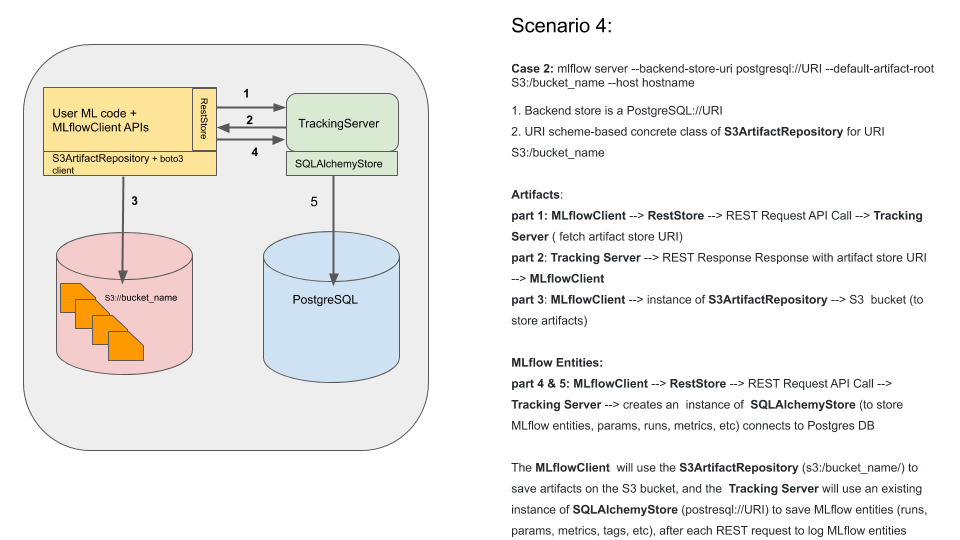
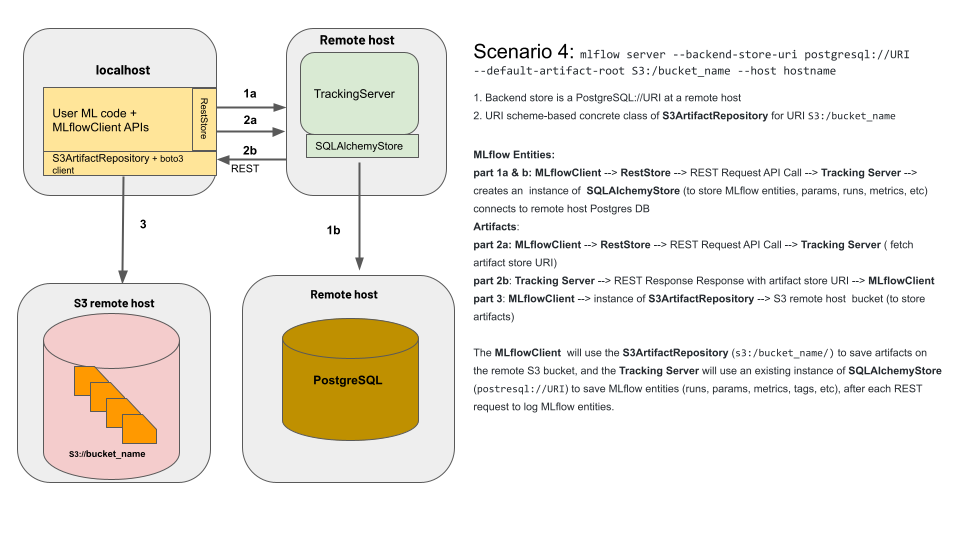
Incorporate feedback and update the images and scenarios

diff --git a/py/mlflow/server/4_stores_scenario.py b/py/mlflow/server/4_stores_scenario.py
@@ -2,46 +2,24 @@ import mlflow
 
 """
 Scenario 4: Tracking server launched at a remote host along with an artifact location and an SQLAlchemy 
-compatible backend store. This scenarios can have two cases:
+compatible backend store. 
 
-Case 1. Launch mlflow server: mlflow server --backend-store-uri sqlite:///my_mlruns.db --host hostname 
---default-artifact-root {file:/mnt/my_artifacts, s3, sftb, gc, wasb, dbfs, hdfs...}
-
-1. Backend store is at local sqlite:///my_mlruns.db
-2. URI scheme-based concrete class of ArtifactRepository for URIs file:/mnt/my_artifacts, s3:/bucket_name, etc.
-
-Artifacts: 
-part 1: MLflowClient --> RestStore --> REST Request API Call --> Tracking Server (fetch artifact store URI)
-part 2: Tracking Server --> REST Response Response with artifact store URI --> MLflow Client
-part 3: MLflowClient --> instance of [scheme]ArtifactRepository --> S3/ftp/wasb/gc etc( to store artifacts)
-
-MLflow Entities:
-part 4 & 5: MLflowClient --> RestStore --> REST Request API Call --> Tracking Server --> instance of SQLAlchemyStore (to store MLflow entities, params, runs, metrics, etc) 
-           and writes to the sqlite file, after each REST request to log MLflow entities
-
-
-The client will use the LocalArtifactFileRepository (file:/mnt/my_artifacts) to save artifacts and the tracking server
-will use an instance SQLAlchemyStore (sqlite:///my_mlruns.db) to save MLflow entities (runs, params, metrics, tags, etc).
-
-
-Case 2:
 mlflow server --backend-store-uri postgresql://URI --default-artifact-root s3:/bucket_name --host hostname
 
 1. Backend store is at SQL server at postresql://URI
 2. URI scheme-based concrete class of S3ArtifactRepository for URI s3:/bucket_name
 
-Artifacts: 
-part 1: MLflowClient --> RestStore --> REST Request API Call --> Tracking Server (fetch artifact store URI)
-part 2: Tracking Server --> REST Response Response with artifact store URI --> MLflow Client
-part 3: MLflowClient --> instance of S3ArtifactRepository --> S3(to store artifacts)
+1. Backend store is a PostgreSQL://URI at a remote host
+2. URI scheme-based concrete class of S3ArtifactRepository for URI S3:/bucket_name
 
 MLflow Entities:
-part 4 & 5: MLflowClient --> RestStore --> REST Request API Call --> Tracking Server --> creates an  instance of 
-          SQLAlchemyStore (to store MLflow entities, params, runs, metrics, etc) connects to Postgres DB
+part 1a & b: MLflowClient --> RestStore --> REST Request API Call --> Tracking Server --> creates an  instance of  SQLAlchemyStore (to store MLflow entities, params, runs, metrics, etc) connects to remote host Postgres DB
+Artifacts:
+part 2a: MLflowClient --> RestStore --> REST Request API Call --> Tracking Server ( fetch artifact store URI)
+part 2b: Tracking Server --> REST Response Response with artifact store URI --> MLflowClient
+part 3: MLflowClient --> instance of S3ArtifactRepository --> S3 remote host  bucket (to store artifacts)
 
-The MLflowClient  will use the S3ArtifactRepository (s3:/bucket_name/) to save artifacts on the S3 bucket, and 
-the  Tracking Server will use an existing instance of SQLAlchemyStore (postresql://URI) to save MLflow entities 
-(runs, params, metrics, tags, etc), after each REST request to log MLflow entities
+The MLflowClient  will use the S3ArtifactRepository (s3:/bucket_name/) to save artifacts on the remote S3 bucket, and the Tracking Server will use an existing instance of SQLAlchemyStore (postresql://URI) to save MLflow entities (runs, params, metrics, tags, etc), after each REST request to log MLflow entities.
 
 
 There will be REST calls to port 5000 where the Tracking Service is running.

diff --git a/py/mlflow/server/3_stores_scenarios.py b/py/mlflow/server/3_stores_scenarios.py
@@ -1,24 +1,20 @@
 import mlflow
 
 """
-Scenario 3: Tracking server launched at localhost (default port 5000)
-as: mlflow server --backend-store-uri file:/path/my_mlruns
+Scenario 3: Tracking server launched at localhost (default port 5000) : mlflow server --backend-store-uri file://path/mlruns
 
-1. Backend store and Artifact Store both use local URI file:/path/my_mlruns. That is, 
-it uses the LocaArtifactRespository to save artifacts and FileStore to save MLflow entities (runs, params, metrics, tags, etc).
-2. Client will use an instance of RestStore and make REST APIs calls to the tracking server at port 5000
-
+1. Backend store and Artifact Store both use local file://path/mlruns. That is,  they use the LocalArtifactRepository to save artifacts and FileStore to save MLflow entities (runs, params, metrics, tags, etc).
+2. Client will use an instance of RestStore and make REST APIs calls to the tracking server at default port 5000
 Interaction and Flow:
-Artifacts:
-part 1: MLflowClient → creates an instance of RestStore --> REST Request API Call --> Tracking Server (fetch artifact store URI)
-part 2: Tracking Server --> REST Response with artifact store URI --> MLflowClient
-part 3: MLflowClient --> creates an instance of LocalArtifactRepository (to store artifacts)
-
 MLflow Entities:
-part 4: MLflowClient --> creates an instance of FileStore (to store MLflow entities–params, runs, metrics, etc)
+part 1a & b: MLflowClient  --> creates an instance of RestStore → REST Log MLflow entities Request API Call --> Tracking Server → instance of FileStore (to save MLflow entities–params, runs, metrics, etc)
+
+Artifacts:
+part 2a: MLflowClient → RestStore --> REST Request API Call --> Tracking Server (fetch artifact store URI)
+part 2b: Tracking Server --> REST Response with artifact store URI --> MLflowClient
+part 3: MLflowClient  --> creates an instance of LocalArtifactRepository (to stores artifacts)
 
 Run tcpdump -Xlv -i lo0 -vv dst port 5000 to see the traffic to port 5000
-
 """
 if __name__ == '__main__':
     features = "rooms, zipcode, median_price, school_rating, transport"

diff --git a/py/mlflow/server/2_stores_scenario.py b/py/mlflow/server/2_stores_scenario.py
@@ -1,18 +1,13 @@
 import mlflow
 
 """
-Scenario 2: No tracking server, but an SQLAlchemy compatible backend store.
+Scenario 2: MLflow on the localhost with backend store as an SQLAlchemy compatible database type: sqlite
 
-1. LocalArtifactRepository is used directly via the client to store artifacts
-2. SQLAlchemy compatible backend store is used to store MLflow entities.
-3. No REST calls; clients interact directly via the APIs through an instance
- of LocalArtifactRepository and an instance SqlAlchemyStore backend store.
+No tracking server, but use an SQLAlchemy compatible backend store for MLflow entities.  Artifacts are stored locally in the local  ./mlruns directory, and MLflow entities are stored in an sqlite database file mlruns.db
 
 Interaction and Flow:
-
-1. MLflowClient APIs --> creates an instance of LocalArtifactRepository (to store artifacts)
-2. MLflowClient APIs --> creates an instance of SQLAlchemyStore (to store MLflow entities,
-   written to sqlite file mlruns.db)
+MLflowClient  --> creates an instance of LocalArtifactRepository (to save artifacts)
+MLflowClient --> creates an instance of SQLAlchemyStore (to save MLflow entities) and writes to sqlite file mlruns.db)
 
 To launch the UI, use `mlfow ui --backend-store-uri sqlite:///mlruns.db`
 

diff --git a/py/mlflow/server/README.md b/py/mlflow/server/README.md
@@ -31,7 +31,8 @@ MLflow on the localhost
 
 ### Scenario 2 
 
-MLflow on the localhost with backstore as SQLAlchemy
+MLflow on the localhost with backend store as an SQLAlchemy compatible database
+sqlite
 
 ![](./images/scenario_2.png)
 
@@ -47,15 +48,6 @@ Tracking server launched at localhost (default port 5000):
 
 Tracking server launched at a remote host along with an artifact location 
 and SQLAlchemy compatible backend store. This scenario can have two cases:
-
-Case 1: 
-
-`mlflow server --backend-store-uri sqlite:///my_mlruns.db --host hostname
---default-artifact-root file:/mnt/my_artifacts`
-
-![](./images/scenario_4_case_1.png)
-
-Case 2:
 
 `mlflow server --backend-store-uri postgresql://URI --default-artifact-root S3:/bucket_name --host hostname`
 
